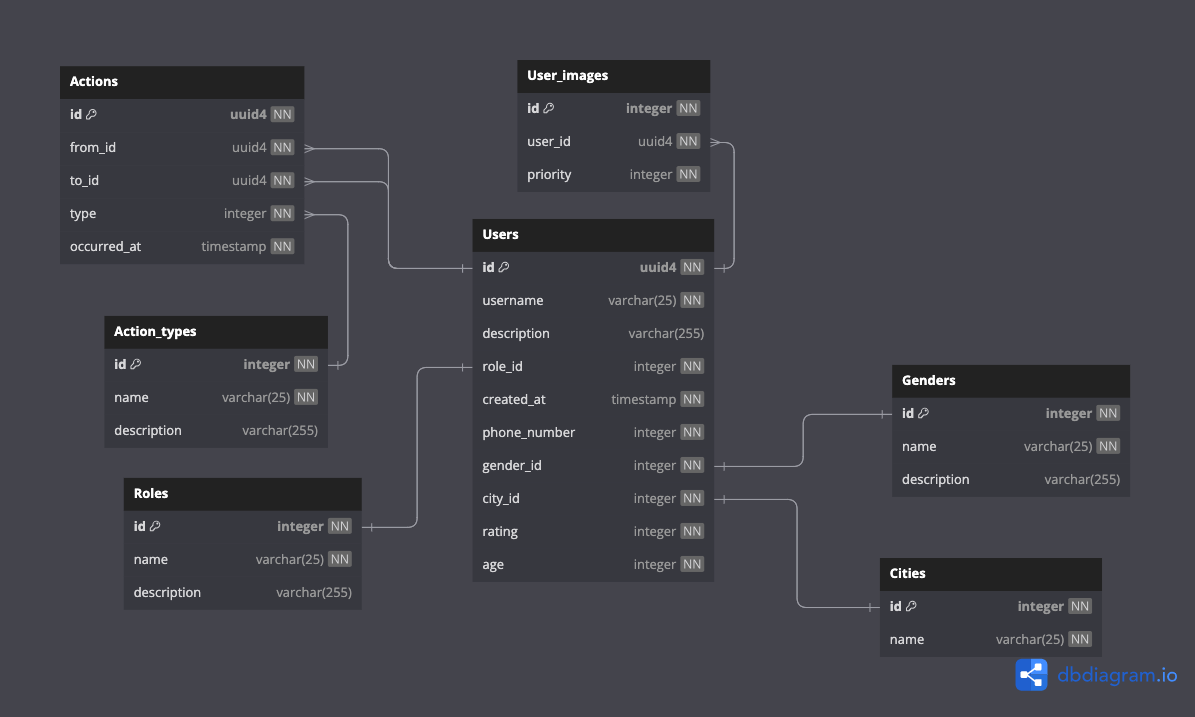
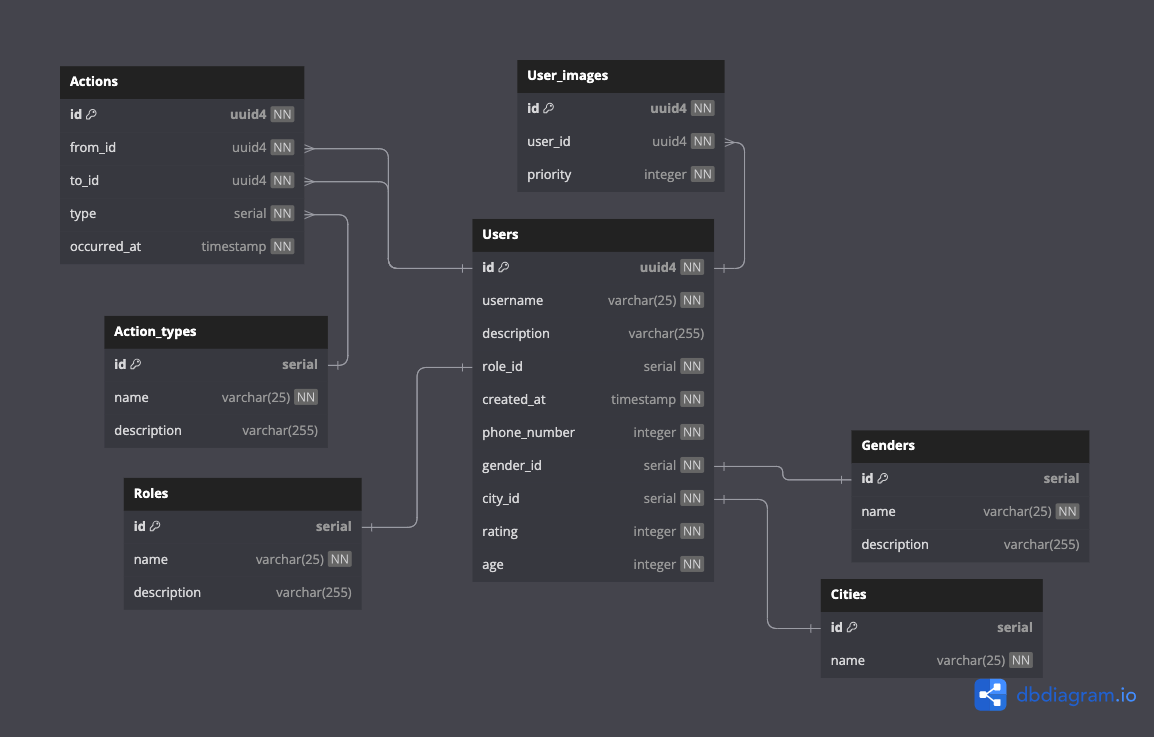
refactor: models
Imports, Types, Relationships.
Rename profile --> user_images table

diff --git a/src/models/user.py b/src/models/user.py
@@ -1,17 +1,32 @@
-from sqlalchemy import Boolean, Column, Integer, String, Identity, ForeignKey, TIMESTAMP
+# Standard library imports
+from uuid import uuid4
+
+# Third party imports
+from sqlalchemy import Column, ForeignKey, Identity, Integer, String, TIMESTAMP
 from sqlalchemy.sql import func
+from sqlalchemy.orm import relationship
+
+# Local application imports
 from ..database import Base
 
 class User(Base):
     __tablename__ = 'users'
-
-    id = Column(Integer, primary_key=True, index=True, unique=True, autoincrement=True)
-    username = Column(String, index=True, nullable=False)
-    description = Column(String(255))
-    role_id = Column(Integer, ForeignKey("roles.id"), nullable=False)
-    created_at = Column(TIMESTAMP, server_default=func.now())
-    phone_number = Column(Integer, unique=True, nullable=False)
-    gender_id = Column(Integer, ForeignKey("genders.id"), nullable=False)
-    city_id = Column(Integer, ForeignKey("cities.id"), nullable=False)
-    rating = Column(Integer, server_default=30)
+    
+    id = Column(uuid4(as_uuid=True), index=True, nullable=False, primary_key=True, unique=True)
+    username = Column(String(25), index=True, nullable=False)
+    description = Column(String(255), nullable=True)
+    role_id = Column(Identity, ForeignKey("roles.id"), nullable=False)
+    created_at = Column(TIMESTAMP, nullable=False, server_default=func.now())
+    phone_number = Column(Integer, nullable=False, unique=True)
+    gender_id = Column(Identity, ForeignKey("genders.id"), nullable=False)
+    city_id = Column(Identity, ForeignKey("cities.id"), nullable=False)
+    rating = Column(Integer, default=30, nullable=False)
     age = Column(Integer, nullable=False)
+    
+
+    roles = relationship('Roles', back_populates='users')
+    genders = relationship('Genders', back_populates='users')
+    cities = relationship('Cities', back_populates='users')
+    user_images = relationship('UserImages', back_populates='user')
+    from_actions = relationship('Actions', foreign_keys='[Actions.from_id]', back_populates='from_user')
+    to_actions = relationship('Actions', foreign_keys='[Actions.to_id]', back_populates='to_user')

diff --git a/src/models/action.py b/src/models/action.py
@@ -1,13 +1,22 @@
-from sqlalchemy import Column, Integer, TIMESTAMP, ForeignKey
-from sqlalchemy.sql import func
+# Standard library imports
 from uuid import uuid4
+
+# Third party imports
+from sqlalchemy import Column, ForeignKey, Identity, TIMESTAMP
+from sqlalchemy.sql import func
+from sqlalchemy.orm import relationship
+
+# Local application imports
 from ..database import Base
 
 class Action(Base):
     __tablename__ = 'actions'
+    
+    id = Column(uuid4(as_uuid=True), index=True, nullable=False, primary_key=True, unique=True)
+    from_id = Column(uuid4(as_uuid=True), ForeignKey('users.id'), nullable=False)
+    to_id = Column(uuid4(as_uuid=True), ForeignKey('users.id'), nullable=False)
+    type = Column(Identity, ForeignKey("action_types.id"), nullable=False)
+    occurred_at = Column(TIMESTAMP, nullable=False, server_default=func.now())
 
-    id = Column(Integer, primary_key=True, index=True, unique=True, autoincrement=True)
-    from_id = Column(uuid4, ForeignKey("users.id"), nullable=False)
-    to_id = Column(uuid4, ForeignKey("users.id"), nullable=False)
-    type = Column(Integer, ForeignKey("action_types.id"), nullable=False)
-    performed_at = Column(TIMESTAMP, server_default=func.now())
+    from_user = relationship('Users', foreign_keys=[from_id], back_populates='from_actions')
+    to_user = relationship('Users', foreign_keys=[to_id], back_populates='to_actions')

diff --git a/src/models/gender.py b/src/models/gender.py
@@ -1,9 +1,15 @@
-from sqlalchemy import Column, Integer, String
+# Third party imports
+from sqlalchemy import Column, Identity, Integer, String
+from sqlalchemy.orm import relationship
+
+# Local application imports
 from ..database import Base
 
 class Gender(Base):
     __tablename__ = 'genders'
+    
+    id = Column(Identity, index=True, primary_key=True)
+    name = Column(String(25), doc='Name of the gender', nullable=False)
+    description = Column(String(255), doc='Description of the gender', nullable=True)
 
-    id = Column(Integer, primary_key=True, index=True, unique=True, autoincrement=True)
-    name = Column(String(25), index=True, nullable=False)
-    description = Column(String(255))
+    users = relationship('Users', back_populates='genders')

diff --git a/src/models/role.py b/src/models/role.py
@@ -1,9 +1,15 @@
-from sqlalchemy import Column, Integer, String
+# Third party imports
+from sqlalchemy import Column, Identity, Integer, String
+from sqlalchemy.orm import relationship
+
+# Local application imports
 from ..database import Base
 
 class Role(Base):
     __tablename__ = 'roles'
+    
+    id = Column(Identity, index=True, primary_key=True)
+    name = Column(String(25), doc='Name of the role', nullable=False)
+    description = Column(String(255), doc='Description of the role', nullable=True)
 
-    id = Column(Integer, primary_key=True, index=True, unique=True, autoincrement=True)
-    name = Column(String(25), index=True, nullable=False)
-    description = Column(String(255))
+    users = relationship('Users', back_populates='roles')

diff --git a/src/models/city.py b/src/models/city.py
@@ -1,8 +1,14 @@
-from sqlalchemy import Column, Integer, String
+# Third party imports
+from sqlalchemy import Column, Identity, Integer, String
+from sqlalchemy.orm import relationship
+
+# Local application imports
 from ..database import Base
 
 class City(Base):
     __tablename__ = 'cities'
+    
+    id = Column(Identity, index=True, primary_key=True)
+    name = Column(String(25), doc='Name of the city', nullable=False)
 
-    id = Column(Integer, primary_key=True, index=True, unique=True, autoincrement=True)
-    name = Column(String(25), index=True, nullable=False)
+    users = relationship('Users', back_populates='cities')

diff --git a/src/models/action_type.py b/src/models/action_type.py
@@ -1,8 +1,12 @@
-from sqlalchemy import Column, Integer, String
+# Third party imports
+from sqlalchemy import Column, Identity, Integer, String
+
+# Local application imports
 from ..database import Base
 
 class Action_Type(Base):
     __tablename__ = 'action_types'
-
-    id = Column(Integer, primary_key=True, index=True, unique=True, autoincrement=True)
-    name = Column(String(30), nullable=False)
+    
+    id = Column(Identity, index=True, primary_key=True)
+    name = Column(String(25), nullable=False)
+    description = Column(String(255), nullable=True)

diff --git a/src/models/user_images.py b/src/models/user_images.py
@@ -1,0 +1,15 @@
+# Standard library imports
+from uuid import uuid4
+
+# Third party imports
+from sqlalchemy import Column, ForeignKey, Integer
+
+# Local application imports
+from ..database import Base
+
+class UserImages(Base):
+    __tablename__ = 'user_images'
+
+    id = Column(uuid4(as_uuid=True), index=True, nullable=False, primary_key=True, unique=True)
+    user_id = Column(uuid4(as_uuid=True), ForeignKey('users.id'), index=True, nullable=False)
+    priority = Column(Integer, default=1, nullable=False)
